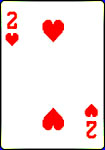
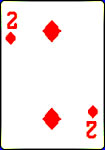
整理圖檔 抽牌 洗牌 抽完後的動作

diff --git a/WP_2020_01_HW02_3A713127/formGame.cs b/WP_2020_01_HW02_3A713127/formGame.cs
@@ -15,6 +15,8 @@ namespace WP_2020_01_HW02_3A713127
     {
         List<Image> list = new List<Image>();
         string[] poker = new string[52];
+        int[] Poker = new int[52];
+        int aa = 0;
         public formGame()
         {
             InitializeComponent();
@@ -31,10 +33,27 @@ namespace WP_2020_01_HW02_3A713127
                 t = poker[i];
                 poker[i] = poker[x];
                 poker[x] = t;
+                Poker[i] = x;
             }          
         }
         private void bt2_Click(object sender, EventArgs e)
         {
+                pb1.Image = list[Poker[aa]];
+            if (aa + 1 < 52)
+            {
+                Poker[aa] = Poker[aa + 1];
+                aa = aa + 1;
+            }
+            if (aa == 52)
+            {
+                pb1.Image = list[54];
+                aa = 0;
+            }
+                
+            
+                
+                
+            
 
         }
         private void formGame_Load(object sender, EventArgs e)
@@ -92,6 +111,18 @@ namespace WP_2020_01_HW02_3A713127
             list.Add(Resources._51);
             list.Add(Resources._52);
             list.Add(Resources._00);
+            list.Add(Resources.NO);
+            int x = 0;
+            string t = "";
+            Random deck = new Random();
+            for (int i = 0; i < 52; i++)
+            {
+                x = deck.Next(0, 52);
+                t = poker[i];
+                poker[i] = poker[x];
+                poker[x] = t;
+                Poker[i] = x;
+            }
         }
     }
 }

diff --git a/WP_2020_01_HW02_3A713127/Properties/Resources.Designer.cs b/WP_2020_01_HW02_3A713127/Properties/Resources.Designer.cs
@@ -589,5 +589,15 @@ namespace WP_2020_01_HW02_3A713127.Properties {
                 return ((System.Drawing.Bitmap)(obj));
             }
         }
+        
+        /// <summary>
+        ///   查詢類型 System.Drawing.Bitmap 的當地語系化資源。
+        /// </summary>
+        internal static System.Drawing.Bitmap NO {
+            get {
+                object obj = ResourceManager.GetObject("NO", resourceCulture);
+                return ((System.Drawing.Bitmap)(obj));
+            }
+        }
     }
 }
